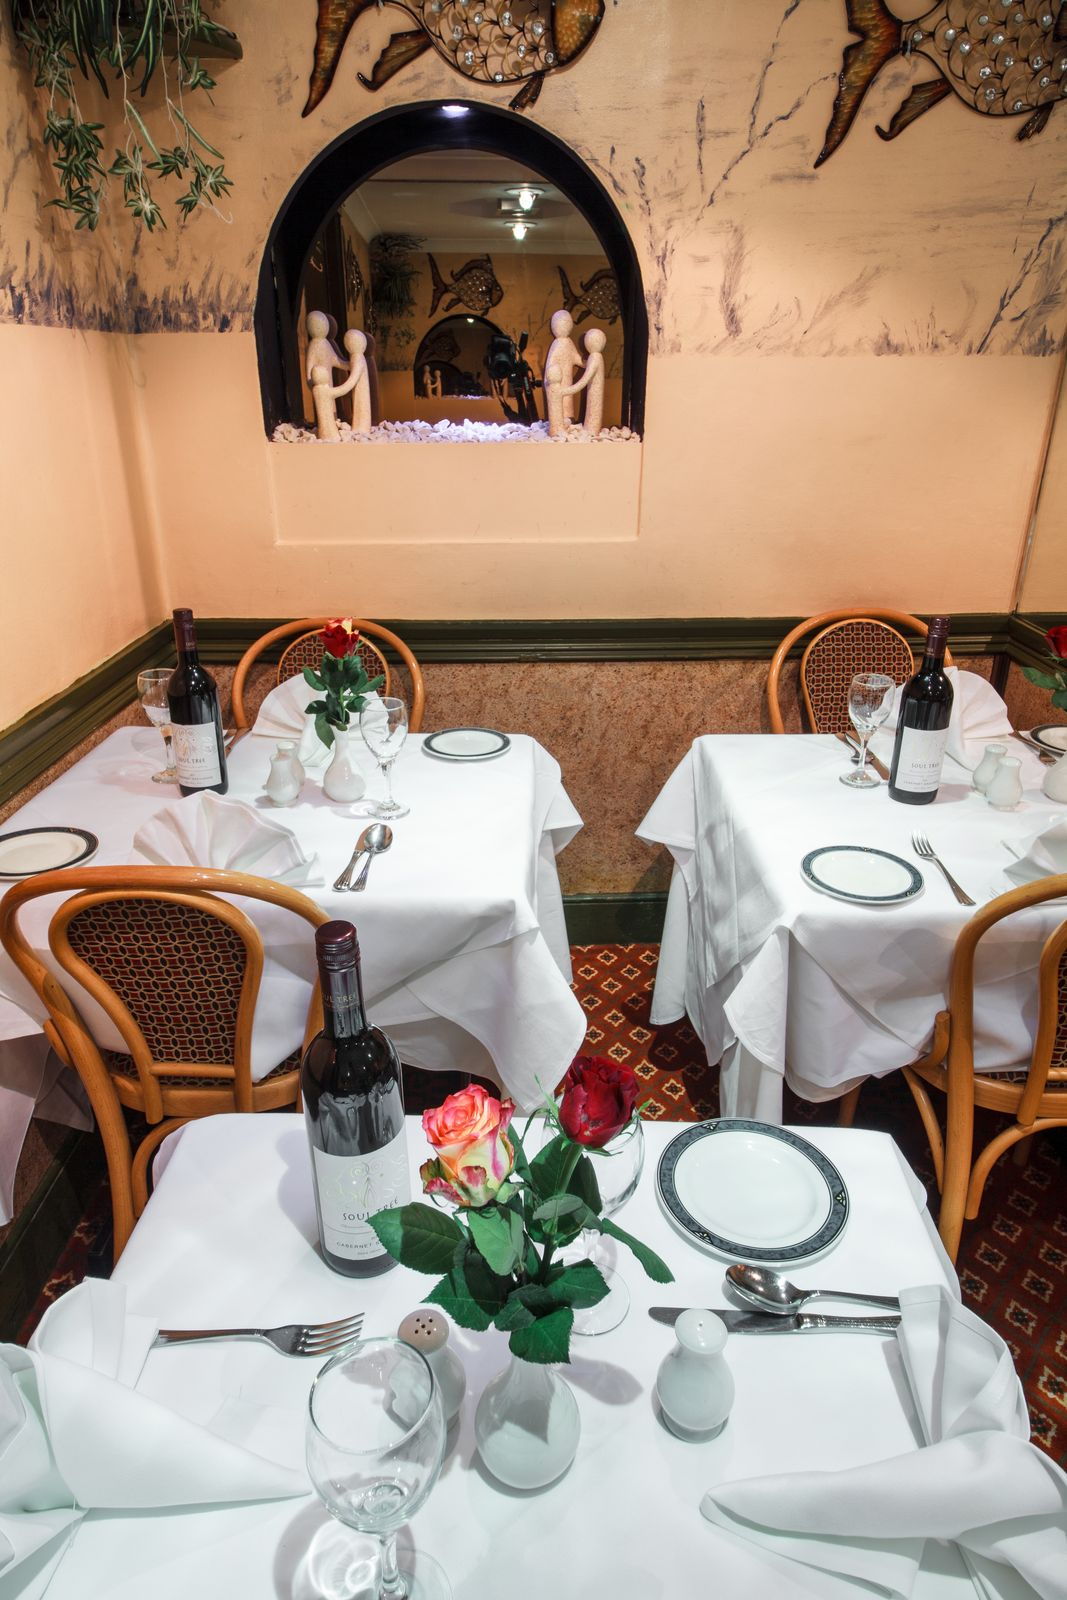
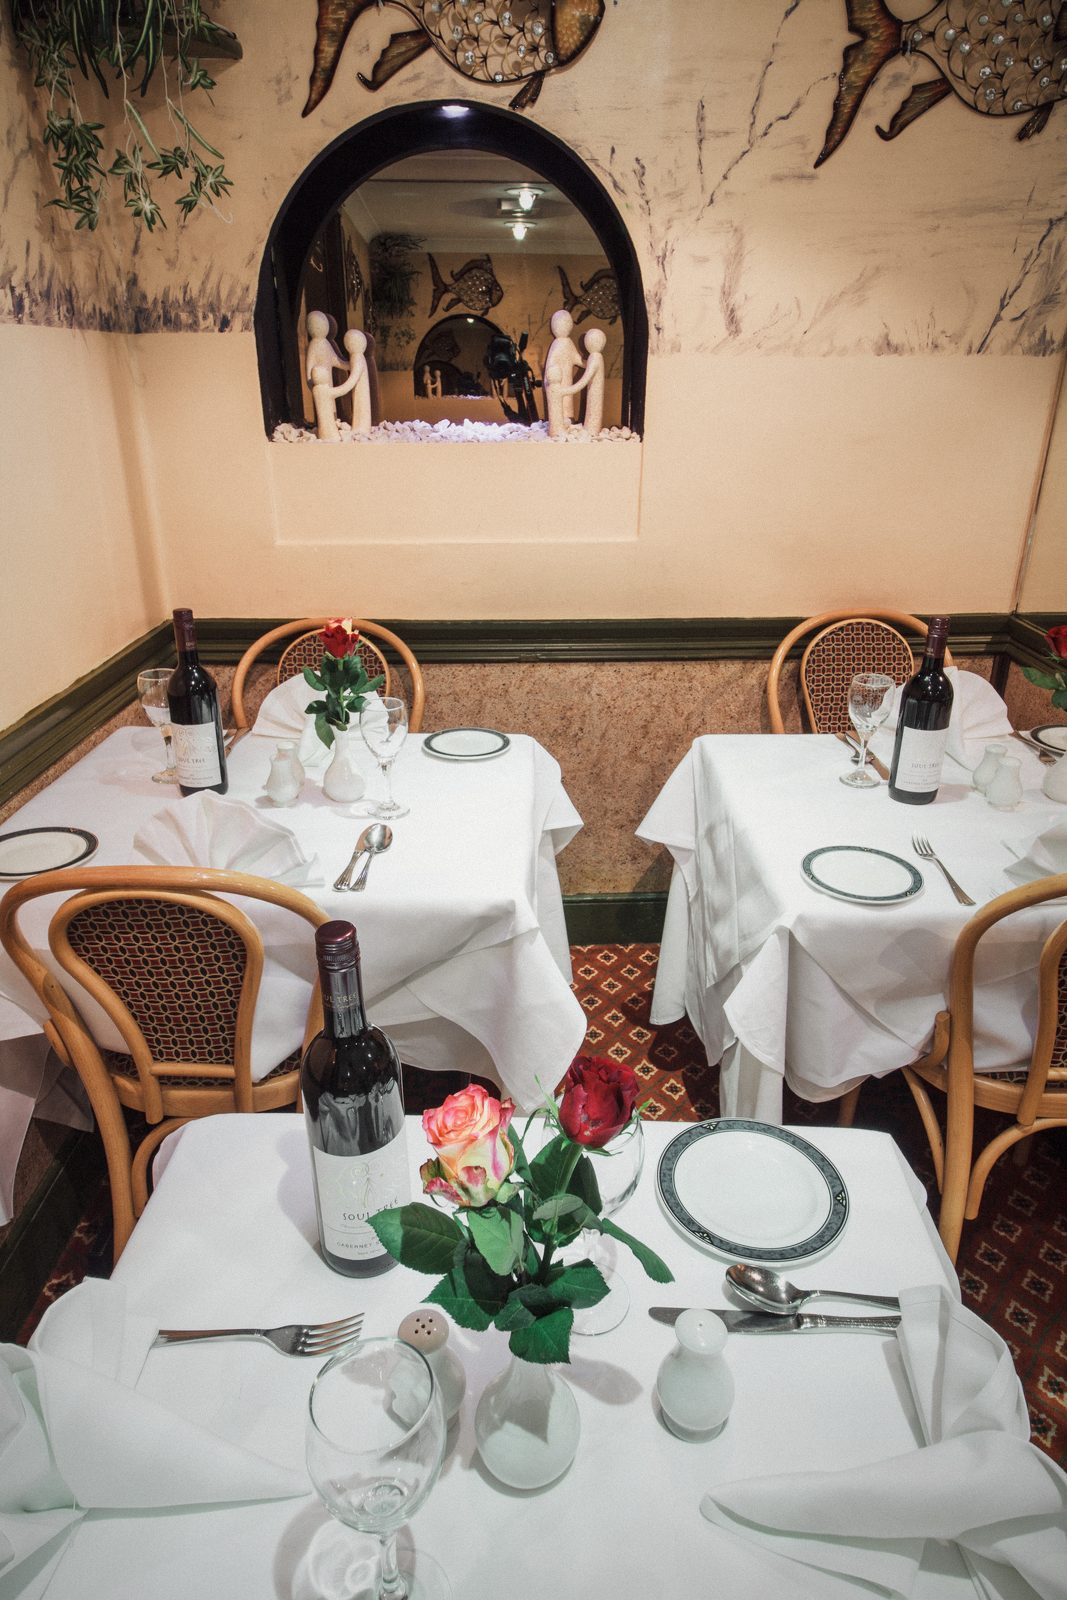
Improve home page photography and motion
- Colour-graded all restaurant photos (softer highlights, calmer walls,
  warm mids, light grain) and cut close-up detail crops so every section
  shows a different scene instead of the same wide shot
- Hero headline words rise into place, then the card and buttons follow
- Soho accordions get a photo column; hover lift on cards; slow scroll
  drift on framed photographs (supported browsers, motion-safe)
- Fix spacing between photo and heading on phones

diff --git a/index.html b/index.html
@@ -73,7 +73,7 @@
 :root{
   --r:24px;--r-lg:32px;--r-btn:999px;
   --hdr:72px;--vpad:clamp(.9rem,3.2vh,2.6rem);--fs:clamp(.8rem,1.7vh,1rem);
-  --grade:saturate(.94) contrast(1.04) sepia(.05);
+  --grade:none;
 }
 
 /* ---------- glass (liquid-glass approximation: backdrop blur + layered highlights) ---------- */
@@ -120,8 +120,16 @@
 .hc-phone:hover{color:var(--sand);}
 .hc-badge{display:block;width:88px;margin:1.1rem auto 0;transition:transform .6s var(--ease);}
 .hc-badge:hover{transform:rotate(-5deg);}
-.hero-inner>.hero-copy,.hero-inner>.hero-card{animation:heroUp 1.3s var(--ease) both;}
-.hero-inner>.hero-card{animation-delay:.35s;}
+.hero-inner>.hero-card{animation:heroUp 1.3s var(--ease) both;animation-delay:.9s;}
+.hero-copy>*{animation:heroUp 1.1s var(--ease) both;}
+.hero-copy>.hero-estd{animation-delay:.05s;}
+.hero-copy>h1{animation-delay:.1s;}
+.hero-copy>.hero-sub{animation-delay:.95s;}
+.hero-copy>.hero-ctas{animation-delay:1.1s;}
+.hero h1.split{animation:none;}
+.hero h1 .w{display:inline-block;overflow:hidden;vertical-align:top;padding-bottom:.14em;margin-bottom:-.14em;}
+.hero h1 .w>span{display:inline-block;transform:translateY(112%);animation:wordUp 1.1s var(--ease) forwards;animation-delay:calc(var(--i) * 75ms + .15s);}
+@keyframes wordUp{to{transform:none;}}
 @keyframes heroUp{from{opacity:0;transform:translateY(24px);}to{opacity:1;transform:none;}}
 
 /* ---------- 2. SPECIAL OFFER: bento ---------- */
@@ -240,7 +248,7 @@ details[open] .row-body{animation:accIn .5s var(--ease);}
 .best .cols{margin-top:1.4rem;column-gap:3rem;color:rgba(255,255,255,.86);}
 .best .cols p{break-inside:avoid;margin-bottom:.9rem;}
 .best-photo{position:relative;min-height:440px;overflow:hidden;border-radius:var(--r-lg) 0 0 var(--r-lg);margin:clamp(.8rem,1.6vw,1.5rem) 0 clamp(.8rem,1.6vw,1.5rem) 0;}
-.best-photo img{position:absolute;inset:0;width:100%;height:100%;object-fit:cover;filter:var(--grade);}
+.best-photo img{position:absolute;inset:0;width:100%;height:100%;object-fit:cover;object-position:24% 50%;filter:var(--grade);}
 
 /* ---------- 7. PRE & POST DINING ---------- */
 .prepost{background:var(--paper);padding:clamp(.8rem,1.4vw,1.2rem);}
@@ -258,6 +266,7 @@ details[open] .row-body{animation:accIn .5s var(--ease);}
 
 /* ---------- 8. WHY OUR GUESTS LOVE ---------- */
 .why{padding:clamp(3.5rem,7vw,7rem) 0;background:var(--paper);}
+.why-grid{display:grid;grid-template-columns:1fr;gap:2rem;}
 .why-title{max-width:16em;}
 .why-photo{position:relative;max-width:440px;border-radius:var(--r-lg);overflow:hidden;}
 .why-photo img{width:100%;aspect-ratio:4/5;object-fit:cover;filter:var(--grade);}
@@ -359,7 +368,7 @@ details[open] .row-body{animation:accIn .5s var(--ease);}
 
   .why-grid{display:grid;grid-template-columns:minmax(0,3fr) minmax(0,9fr);gap:clamp(1.5rem,3.5vw,4rem);align-items:stretch;}
   .why-photo{max-width:none;min-height:100%;}
-  .why-photo img{position:absolute;inset:0;width:100%;height:100%;aspect-ratio:auto;}
+  .why-photo img{position:absolute;inset:0;width:100%;height:100%;aspect-ratio:auto;object-position:50% 30%;}
   .why-main{justify-content:center;}
   .why-title{max-width:none;font-size:clamp(1.9rem,min(3.4vw,5.6vh),3.1rem);}
   .why-split{grid-template-columns:1fr 1fr;gap:clamp(1.5rem,3vw,3.5rem);align-items:start;}
@@ -368,6 +377,8 @@ details[open] .row-body{animation:accIn .5s var(--ease);}
   .exp-grid{grid-template-columns:minmax(0,5fr) minmax(0,7fr);gap:clamp(2rem,4vw,5rem);align-items:center;}
   .exp-head .h2{font-size:clamp(2rem,min(3.6vw,6vh),3.4rem);}
   .exp-head p{font-size:var(--fs);line-height:1.6;}
+  .faq-grid{grid-template-columns:minmax(0,3.2fr) minmax(0,8.8fr);gap:clamp(1.5rem,3.5vw,4rem);}
+  .faq-photo{min-height:0;}
   .tile{min-height:clamp(260px,62vh,620px);}
 }
 @media (min-width:1101px) and (max-width:1350px) and (min-height:600px){
@@ -376,6 +387,34 @@ details[open] .row-body{animation:accIn .5s var(--ease);}
 }
 
 .glass.tile-chip{background:linear-gradient(150deg,rgba(255,255,255,.2) 0,rgba(255,255,255,.05) 50%,rgba(255,255,255,.1) 100%),rgba(22,11,8,.5);}
+
+/* soho accordions with a photo beside them */
+.faq-grid{display:grid;grid-template-columns:1fr;gap:2rem;align-items:stretch;}
+.faq-photo{position:relative;border-radius:var(--r-lg);overflow:hidden;min-height:220px;}
+.faq-photo img{position:absolute;inset:0;width:100%;height:100%;object-fit:cover;}
+
+/* hover lift */
+.t-card,.offer-pct,.offer-main{transition:transform .6s var(--ease),box-shadow .6s var(--ease);}
+@media (hover:hover){
+  .t-menu:hover,.t-quotes:hover,.t-party:hover{transform:translateY(-6px);}
+  .t-menu:hover{box-shadow:0 40px 70px -32px rgba(36,27,24,.5);}
+  .offer-pct:hover{transform:translateY(-4px);}
+}
+
+/* framed photographs drift slowly against the scroll (scroll-driven, supported browsers only) */
+@media (prefers-reduced-motion:no-preference){
+  @supports (animation-timeline:view()){
+    .offer-photo img,.best-photo img,.why-photo img,.faq-photo img,.tile img{inset:-8% 0 auto 0;height:116%;animation:drift linear both;animation-timeline:view();animation-range:cover 0% cover 100%;}
+    @keyframes drift{from{transform:translateY(-6%);}to{transform:translateY(6%);}}
+    .tile:hover img,.tile:focus-visible img{animation-play-state:paused;}
+  }
+}
+
+@media (min-width:1101px) and (min-height:600px){
+  .faq-grid{grid-template-columns:minmax(0,3.2fr) minmax(0,8.8fr);gap:clamp(1.5rem,3.5vw,4rem);}
+  .faq-photo{min-height:0;}
+  .soho .faq-sec{padding-bottom:1.2rem;}
+}
 </style>
 </head>
 <body>
@@ -589,7 +628,7 @@ details[open] .row-body{animation:accIn .5s var(--ease);}
           <p class="offer-note"><strong>Blue Badge holders</strong> receive 10% off.</p>
         </div>
       </article>
-      <figure class="offer-photo reveal-mask"><img src="images/restaurant/table-2.jpg" width="1067" height="1600" loading="lazy" decoding="async" alt="A table laid with white linen, a bottle of red wine and fresh roses"></figure>
+      <figure class="offer-photo reveal-mask"><img src="images/restaurant/detail-table.jpg" width="1500" height="1076" loading="lazy" decoding="async" alt="A table laid with white linen, a bottle of red wine and fresh roses"></figure>
       <aside class="offer-pct reveal">
         <p class="pct"><span>10</span><sup>%</sup></p>
         <p class="pct-text">off your<br>total bill</p>
@@ -625,11 +664,11 @@ details[open] .row-body{animation:accIn .5s var(--ease);}
     <div class="carousel reveal" data-carousel data-interval="5500" role="group" aria-roledescription="carousel" aria-label="Photos of the restaurant" style="--d:.1s">
       <ul class="track" data-track tabindex="0" aria-label="Restaurant photos. Scroll sideways to see more.">
         <li><img src="images/restaurant/hall-1.jpg" width="2000" height="1333" loading="lazy" decoding="async" alt="Long dining room with white tablecloths, patterned mirrors and hanging lanterns"></li>
-        <li><img src="images/restaurant/table-3.jpg" width="1067" height="1600" loading="lazy" decoding="async" alt="A long table laid for dinner with white linen, wine and a rose"></li>
-        <li><img src="images/restaurant/room-1.jpg" width="2000" height="1333" loading="lazy" decoding="async" alt="Dining room with fish murals on the wall and tables laid with white linen"></li>
+        <li><img src="images/restaurant/table-1.jpg" width="1067" height="1600" loading="lazy" decoding="async" alt="A table set with white linen, a bottle of red wine and roses"></li>
+        <li><img src="images/restaurant/detail-fish.jpg" width="1800" height="952" loading="lazy" decoding="async" alt="Fish mural and an arched niche on a dining room wall"></li>
         <li><img src="images/restaurant/sign-1.jpg" width="1259" height="1600" loading="lazy" decoding="async" alt="The hanging Delhi Brasserie Indian Cuisine sign above the restaurant window"></li>
         <li><img src="images/restaurant/room-3.jpg" width="2000" height="1333" loading="lazy" decoding="async" alt="Dining room with a chandelier and tables laid for dinner"></li>
-        <li><img src="images/restaurant/table-1.jpg" width="1067" height="1600" loading="lazy" decoding="async" alt="A table set with white linen, a bottle of red wine and roses"></li>
+        <li><img src="images/restaurant/hall-3.jpg" width="2000" height="1333" loading="lazy" decoding="async" alt="The main dining hall lit by lanterns, with carved wall panels"></li>
       </ul>
       <div class="carousel-ui">
         <button type="button" data-prev aria-label="Previous photo"><svg class="ic" aria-hidden="true"><use href="#i-arrow"/></svg></button>
@@ -642,7 +681,8 @@ details[open] .row-body{animation:accIn .5s var(--ease);}
 <!-- ======================= 4. FOUR SOHO ACCORDIONS + TAKEAWAY ======================= -->
 <div class="soho">
   <section class="faq-sec" aria-label="Why Delhi Brasserie">
-    <div class="wrap">
+    <div class="wrap faq-grid">
+      <figure class="faq-photo reveal-mask"><img src="images/restaurant/detail-mirrors.jpg" width="1523" height="1600" loading="lazy" decoding="async" alt="Jewel-coloured mirrors and carved panels on the dining room wall"></figure>
       <div class="rows faq reveal">
         <details class="row" name="soho">
           <summary>Best Indian Restaurant London Soho <span class="plus"><svg class="ic" aria-hidden="true"><use href="#i-plus"/></svg></span></summary>
@@ -726,7 +766,7 @@ details[open] .row-body{animation:accIn .5s var(--ease);}
         <p>Just as much as our impeccable cuisines and delicacies, our guests appreciate the way we treat them, take care of them, and offer them the best service.</p>
       </div>
     </div>
-    <figure class="best-photo reveal-mask"><img src="images/restaurant/hall-2.jpg" width="2000" height="1333" loading="lazy" decoding="async" alt="The dining hall with tables laid for dinner under decorative lanterns"></figure>
+    <figure class="best-photo reveal-mask"><img src="images/restaurant/detail-lanterns.jpg" width="1800" height="1463" loading="lazy" decoding="async" alt="Jewel-coloured lanterns and a flower arrangement in the dining room"></figure>
   </div>
 </section>
 
@@ -749,7 +789,7 @@ details[open] .row-body{animation:accIn .5s var(--ease);}
 <!-- ======================= 8. WHY OUR GUESTS LOVE ======================= -->
 <section class="why" aria-labelledby="why-h">
   <div class="wrap why-grid">
-    <figure class="why-photo reveal-mask"><img src="images/restaurant/hall-3.jpg" width="2000" height="1333" loading="lazy" decoding="async" alt="The main dining hall with carved mirrors and lanterns"></figure>
+    <figure class="why-photo reveal-mask"><img src="images/restaurant/sign-2.jpg" width="1067" height="1600" loading="lazy" decoding="async" alt="The hanging Delhi Brasserie Indian Cuisine sign above the entrance"></figure>
     <div class="why-main">
       <h2 class="h2 why-title reveal" id="why-h">Why Our Guests Love Our <em>Authentic Indian Restaurant</em> in Soho London</h2>
       <div class="why-split">
@@ -799,11 +839,11 @@ details[open] .row-body{animation:accIn .5s var(--ease);}
     </div>
     <div class="tiles">
       <a class="tile reveal-mask" href="/menus/main-menu/">
-        <img src="images/restaurant/table-3.jpg" width="1067" height="1600" loading="lazy" decoding="async" alt="A long table laid for dinner with white linen, wine and a rose">
+        <img src="images/restaurant/detail-rose.jpg" width="1358" height="1500" loading="lazy" decoding="async" alt="A place setting with white linen, a bottle of red wine and roses">
         <span class="tile-chip glass"><span>Food Menu</span><span class="go" aria-hidden="true"><svg class="ic"><use href="#i-arrow"/></svg></span></span>
       </a>
       <a class="tile reveal-mask" href="/menus/drinks-menu/" style="--d:.12s">
-        <img src="images/restaurant/table-4.jpg" width="2000" height="1333" loading="lazy" decoding="async" alt="A table laid with white linen, a bottle of wine and glasses">
+        <img src="images/restaurant/detail-glass.jpg" width="1500" height="1400" loading="lazy" decoding="async" alt="Wine glasses, a bottle and a candle on a table laid for dinner">
         <span class="tile-chip glass"><span>Drinks Menu</span><span class="go" aria-hidden="true"><svg class="ic"><use href="#i-arrow"/></svg></span></span>
       </a>
     </div>

diff --git a/delhi.js b/delhi.js
@@ -194,6 +194,32 @@
     } catch (e) { /* keep the static text */ }
   })();
 
+
+  /* ---------- hero headline: words rise into place ---------- */
+  (function () {
+    var h1 = doc.querySelector('.hero h1');
+    if (!h1 || reduceMotion) return;
+    var i = 0;
+    function walk(node) {
+      [].slice.call(node.childNodes).forEach(function (n) {
+        if (n.nodeType === 3) {
+          var frag = doc.createDocumentFragment();
+          n.textContent.split(/(\s+)/).forEach(function (part) {
+            if (!part) return;
+            if (/^\s+$/.test(part)) { frag.appendChild(doc.createTextNode(' ')); return; }
+            var w = doc.createElement('span'); w.className = 'w';
+            var inner = doc.createElement('span'); inner.textContent = part;
+            inner.style.setProperty('--i', i++);
+            w.appendChild(inner); frag.appendChild(w);
+          });
+          node.replaceChild(frag, n);
+        } else if (n.nodeType === 1) { walk(n); }
+      });
+    }
+    walk(h1);
+    h1.classList.add('split');
+  })();
+
   /* ---------- hide a section when its content is empty ---------- */
   doc.querySelectorAll('[data-hide-if-empty]').forEach(function (sec) {
     var probe = sec.querySelector('[data-required]');

diff --git a/README.md b/README.md
@@ -21,6 +21,8 @@ Only the home page is built so far. It follows `docs/Home Page .pdf`; the copy i
 
 **Icons** are Phosphor Icons (MIT licence), inlined as a sprite at the top of `index.html`.
 
+**Photography**: the client's originals in `docs/` are colour-graded (softer highlights, calmer orange walls, warm mids, light grain) and cut into close-up details (lanterns, mirrors, table settings) so each section shows a different scene. Graded files live in `images/restaurant/`. Re-run the grading if new photos arrive.
+
 **Layout**: on desktop (1101px wide and 600px tall or more) every home page section is one screen tall, type is sized from the screen height so it still fits on shorter laptops, and the page snaps softly from section to section. Tablets and phones stack normally. **Hero**: circular dark vignette (clear centre, dark edges), and a liquid-glass booking card that shows live open/closed status (London time). **Type**: Bodoni Moda (display) and Manrope (text) from Google Fonts. **Motion**: slow hero zoom and scroll shift, curtain reveal on photographs (`.reveal-mask`), fade-up on text (`.reveal`); all of it is switched off for visitors who prefer reduced motion.
 
 **Links** use the live site's existing URL paths (`/menus/main-menu/`, `/reviews/`, `/reservations/`, `/new-blog/` and so on) so SEO is kept. Two menus replace the old four: `/menus/main-menu/` is the Food Menu (mains and desserts, anchor `#desserts`) and `/menus/drinks-menu/` is the Drinks Menu (drinks and wine, anchor `#wine`). Set up 301 redirects from `/menus/desserts-liqueurs-menu/` and `/menus/wine-menu/`. New paths still to confirm: `/pre-post-theatre-dining/` and `/influencer-videos/`.
